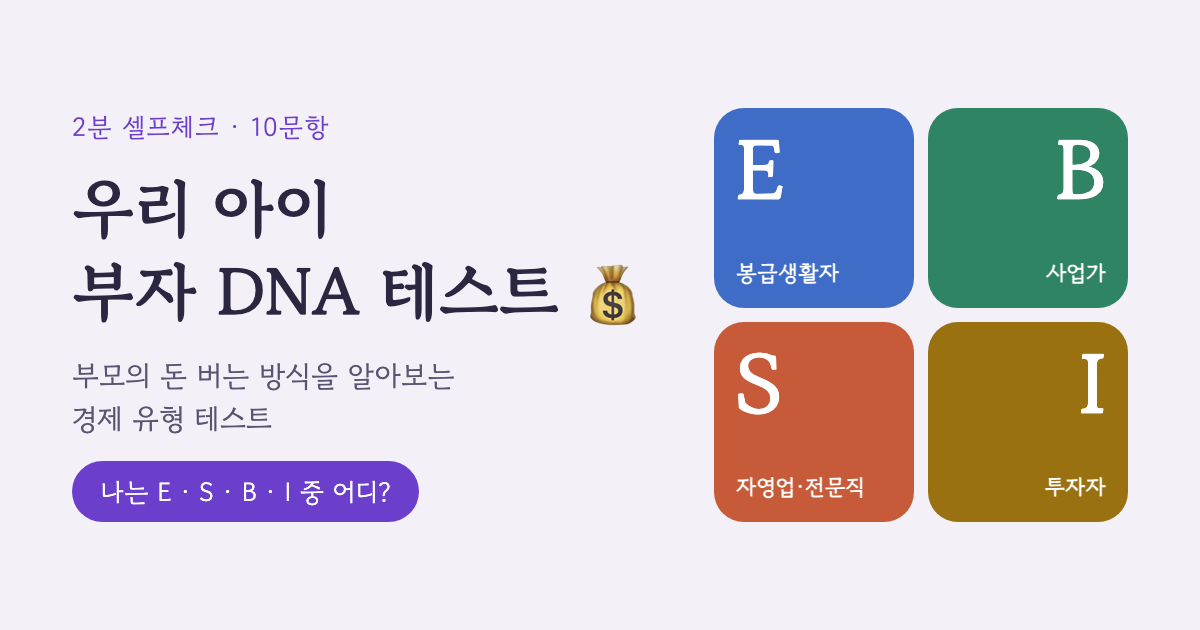
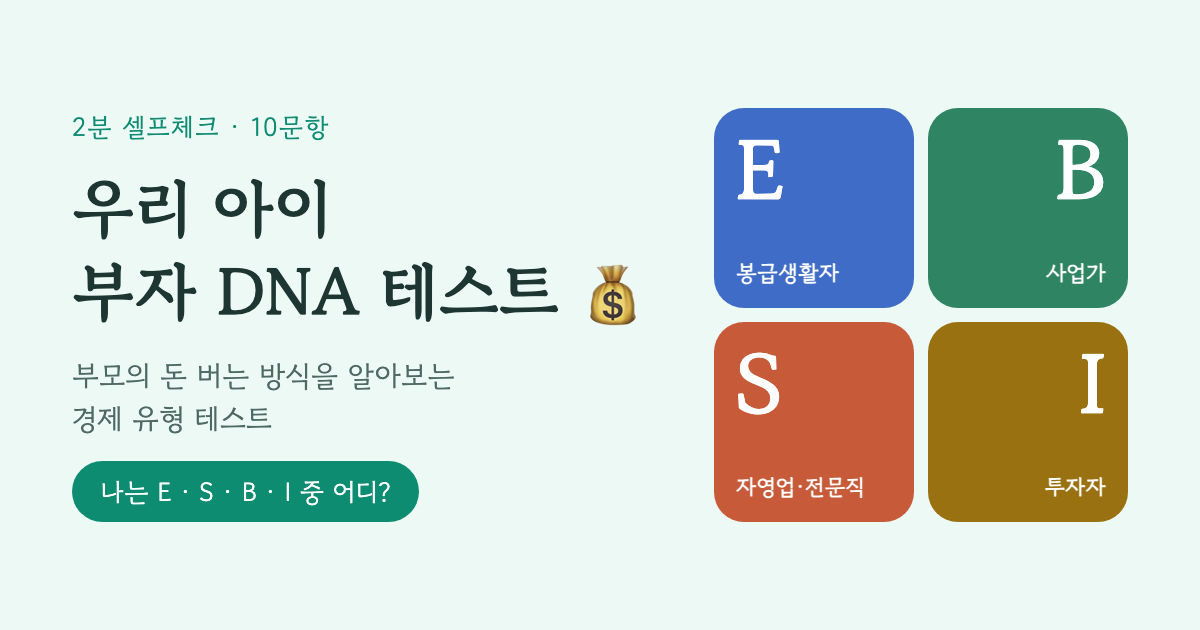
테마를 민트로 변경, 책 이미지 자리 제거, 도서관 대여 표기

Changed region(s): [[0.0617, 0.7238, 0.37, 0.8444], [0.0617, 0.181, 0.185, 0.2413], [0.2158, 0.181, 0.2775, 0.2111]]

diff --git a/index.html b/index.html
@@ -20,30 +20,30 @@
 <link rel="stylesheet" href="https://fonts.googleapis.com/css2?family=Gowun+Batang:wght@400;700&family=Gowun+Dodum&display=swap">
 <style>
 :root{
-  --bg:#F3F0F8; --surface:#FCFBFE; --ink:#2C2740; --muted:#6C6683; --line:#E2DCEE;
-  --accent:#7A4FD6; --accent-soft:#ECE4FA; --btn:#6B3FCB; --btn-ink:#FFFFFF;
+  --bg:#EDF9F5; --surface:#FBFEFD; --ink:#1E3632; --muted:#5B746F; --line:#D3ECE5;
+  --accent:#0E9478; --accent-soft:#D3F4EB; --btn:#0E8C72; --btn-ink:#FFFFFF;
   --e:#3F6CC6; --e-soft:#E3ECFB;
   --s:#C75B39; --s-soft:#FBE8E1;
   --b:#2E8463; --b-soft:#DFF2EA;
   --i:#9A7110; --i-soft:#F7EDD3; --on-q:#FFFFFF;
-  --shadow:0 1px 0 rgba(44,39,64,.04),0 12px 30px -18px rgba(90,60,160,.4);
+  --shadow:0 1px 0 rgba(44,39,64,.04),0 12px 30px -18px rgba(20,110,90,.35);
   --font-display:"Gowun Batang","Noto Serif KR","Apple SD Gothic Neo",serif;
   --font-body:"Gowun Dodum","Noto Sans KR","Apple SD Gothic Neo","Malgun Gothic",sans-serif;
 }
 @media (prefers-color-scheme: dark){
   :root:not([data-theme="light"]){
-    --bg:#16131F; --surface:#211D2E; --ink:#EEEAF7; --muted:#A8A1BE; --line:#363049;
-    --accent:#B394F5; --accent-soft:#2E2645; --btn:#B394F5; --btn-ink:#16131F;
+    --bg:#0F1D1A; --surface:#172A26; --ink:#E5F5F1; --muted:#9BBAB3; --line:#274540;
+    --accent:#5FDCC0; --accent-soft:#1B3B34; --btn:#5FDCC0; --btn-ink:#0F1D1A;
     --e:#86A9EE; --e-soft:#1F2A40; --s:#EE9B7F; --s-soft:#3A2520;
-    --b:#76CBA7; --b-soft:#1B3329; --i:#E2BA5A; --i-soft:#372D16; --on-q:#16131F;
+    --b:#76CBA7; --b-soft:#1B3329; --i:#E2BA5A; --i-soft:#372D16; --on-q:#0F1D1A;
     --shadow:0 12px 30px -18px rgba(0,0,0,.7); color-scheme:dark;
   }
 }
 :root[data-theme="dark"]{
-  --bg:#16131F; --surface:#211D2E; --ink:#EEEAF7; --muted:#A8A1BE; --line:#363049;
-  --accent:#B394F5; --accent-soft:#2E2645; --btn:#B394F5; --btn-ink:#16131F;
+  --bg:#0F1D1A; --surface:#172A26; --ink:#E5F5F1; --muted:#9BBAB3; --line:#274540;
+  --accent:#5FDCC0; --accent-soft:#1B3B34; --btn:#5FDCC0; --btn-ink:#0F1D1A;
   --e:#86A9EE; --e-soft:#1F2A40; --s:#EE9B7F; --s-soft:#3A2520;
-  --b:#76CBA7; --b-soft:#1B3329; --i:#E2BA5A; --i-soft:#372D16; --on-q:#16131F;
+  --b:#76CBA7; --b-soft:#1B3329; --i:#E2BA5A; --i-soft:#372D16; --on-q:#0F1D1A;
   --shadow:0 12px 30px -18px rgba(0,0,0,.7); color-scheme:dark;
 }
 [hidden]{display:none!important}
@@ -231,12 +231,11 @@ function intro(){
     <h2>부모의 돈 버는 방식을 알아보는 경제 유형 테스트</h2>
     <p class="lede">『부자 아빠의 리치 패밀리』에 나오는 ‘현금흐름 사분면’을 육아 상황 질문으로 바꿔봤어요. 나는 어느 사분면에 가장 가까운 엄빠일까요? 아이의 돈 감각은 부모를 보고 배운대요.</p>
     <div class="card book">
-      <img src="book.jpg" alt="『부자 아빠의 리치 패밀리』 책 표지" onerror="this.remove()">
       <div>
         <p class="label" style="margin-bottom:2px">참고한 책</p>
         <p class="bt">『부자 아빠의 리치 패밀리』</p>
         <p class="fine">로버트 기요사키 · 3강 「어떤 사람이 되고 싶은지 선택하라」</p>
-        <span class="nosp">광고·협찬 아님 · 직접 읽고 만든 테스트</span>
+        <span class="nosp">광고·협찬 아님 · 도서관에서 빌려 읽은 책</span>
       </div>
     </div>
     <div class="card" style="display:flex;flex-direction:column;gap:10px">
@@ -350,7 +349,7 @@ function result(){
       <span class="btn" style="margin-top:6px">인스타그램에서 팔로우하기</span>
     </a>
 
-    <p class="fine">참고: 로버트 기요사키, 『부자 아빠의 리치 패밀리』 3강 「어떤 사람이 되고 싶은지 선택하라」. 책의 개념을 바탕으로 동글마미가 만든 재미용 셀프체크이며, 심리검사나 재무 진단이 아니에요. 특정 금융상품을 권하지 않으며, 출판사·저자로부터 받은 광고나 협찬은 없어요.</p>
+    <p class="fine">참고: 로버트 기요사키, 『부자 아빠의 리치 패밀리』 3강 「어떤 사람이 되고 싶은지 선택하라」. 책의 개념을 바탕으로 동글마미가 만든 재미용 셀프체크이며, 심리검사나 재무 진단이 아니에요. 특정 금융상품을 권하지 않으며, 출판사·저자로부터 받은 광고나 협찬은 없어요(도서관에서 빌려 읽은 책).</p>
   </section>`;
   requestAnimationFrame(()=>requestAnimationFrame(()=>app.querySelectorAll(".tr i").forEach(i=>i.style.width=i.dataset.w+"%")));
   document.getElementById("again").onclick = intro;
